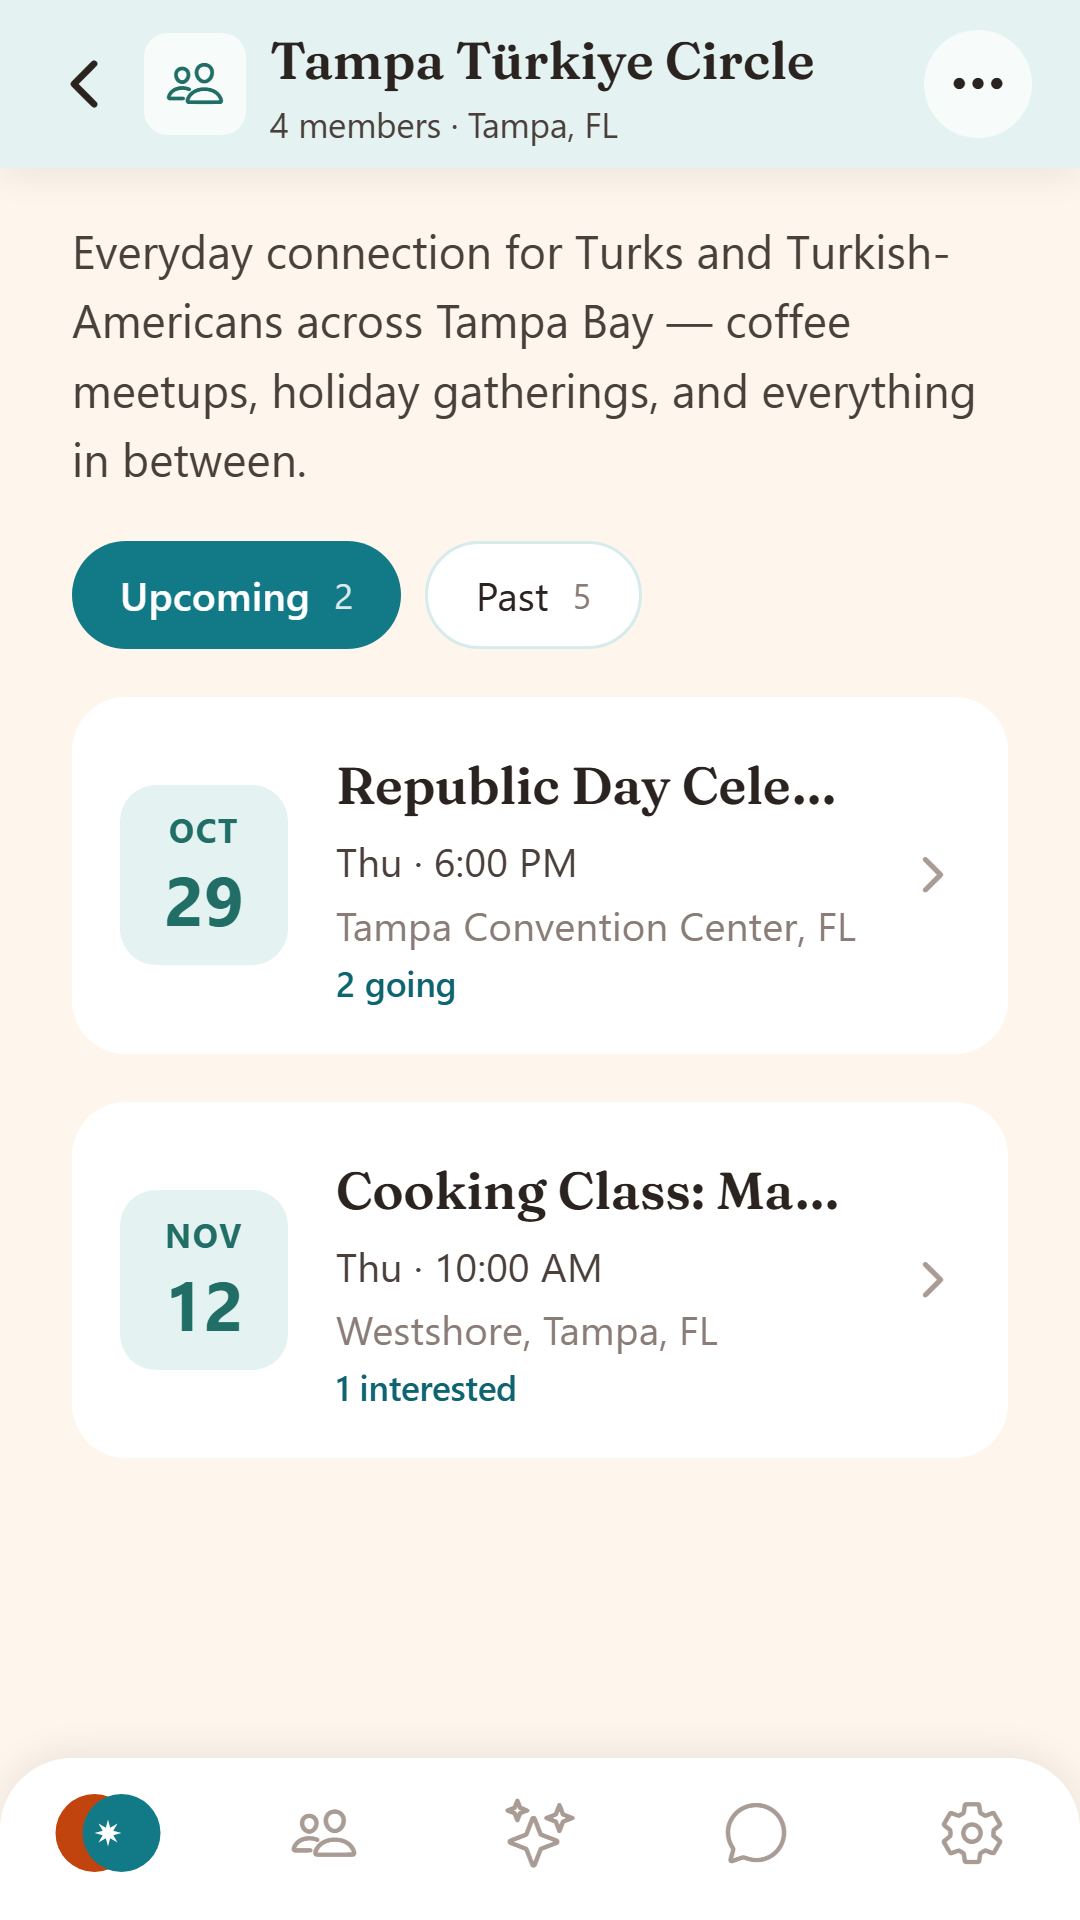
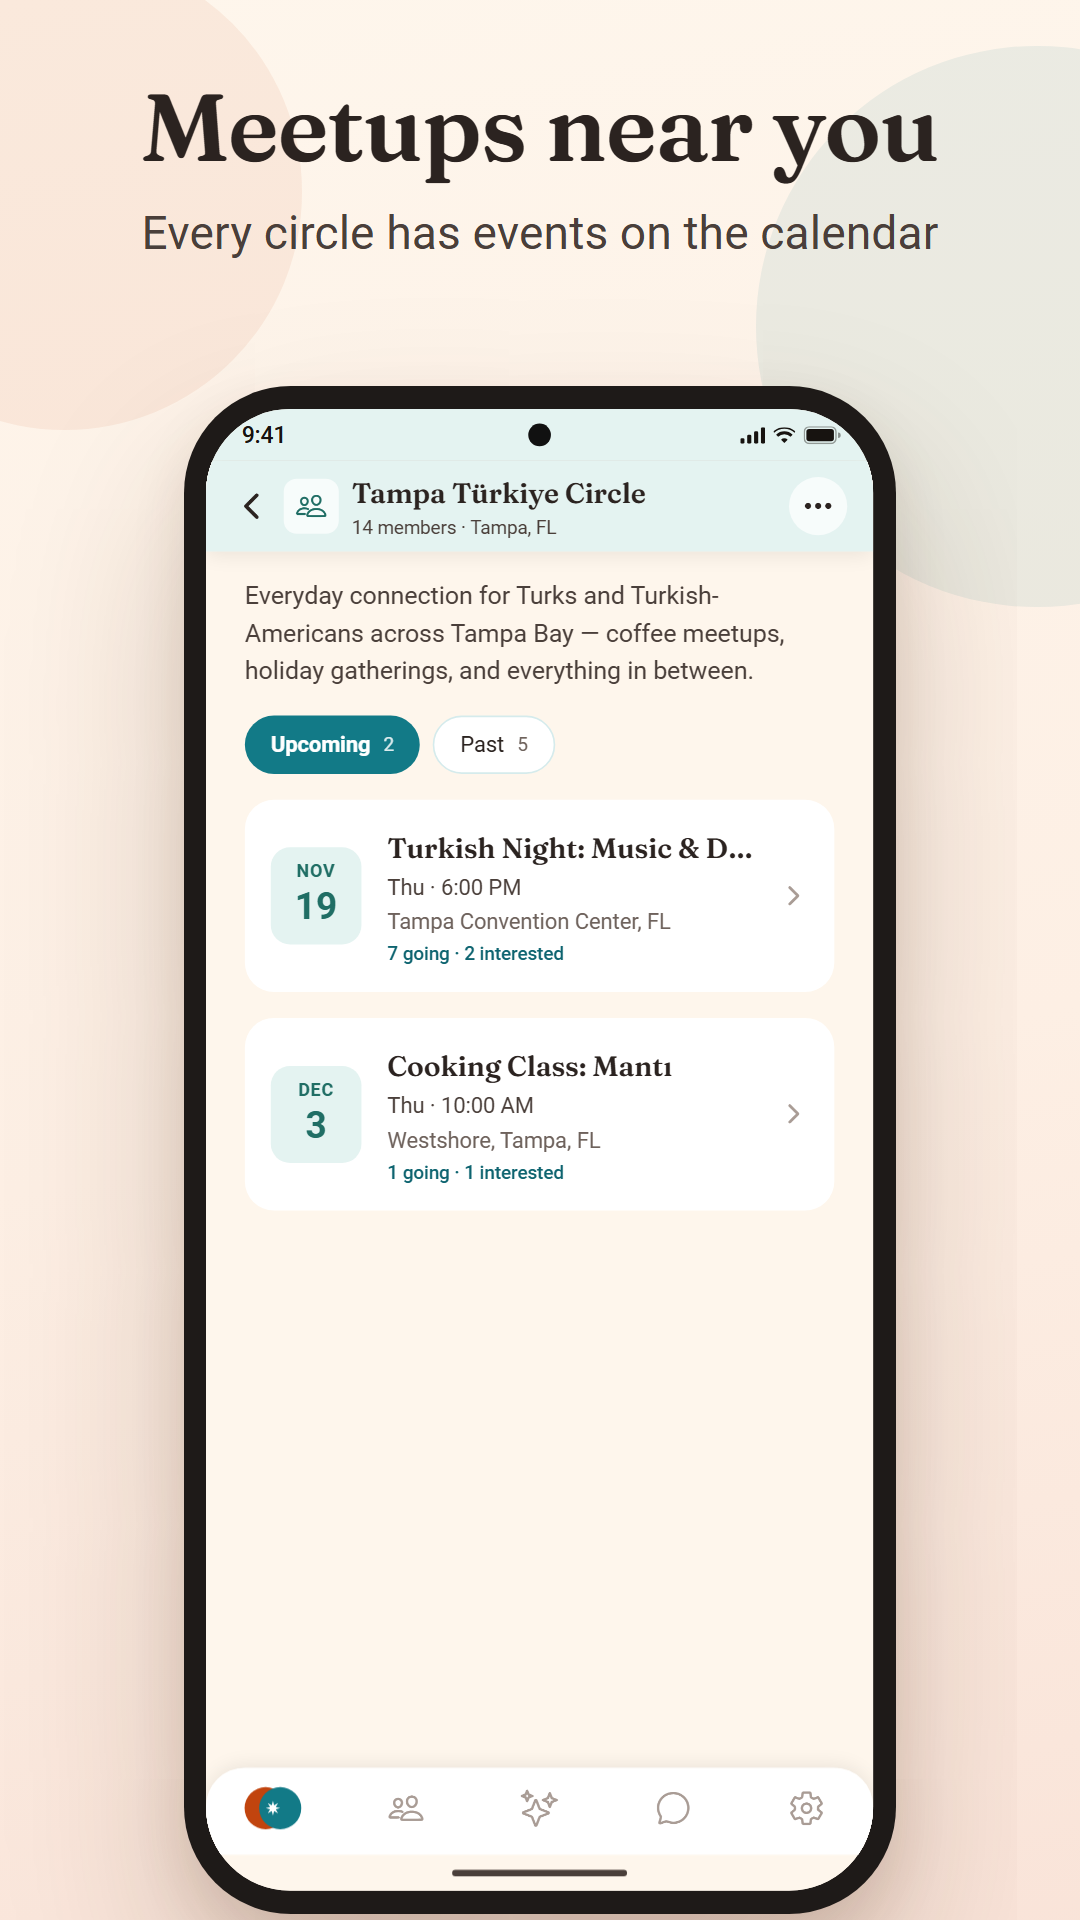
Store screenshots: captioned, in device frames, from the current app
All 28 retaken (App Store 6.9", Play phone, 7- and 10-inch tablet) with a headline
above each screen, the screen in a phone or tablet frame with a status bar, and the
phone's own font (Inter for iPhone, Roboto for Android) instead of Windows' Segoe UI.
The sample world now has upcoming events, real member counts, a current safety plan
and a clean chat. The Play feature graphic said "Turkic Circles"; it says Halka.

scripts/store_screenshots/ makes them again: prepare.py builds, signs in as the
review account and serves; shoot.ps1 renders into store-assets/.

diff --git a/scripts/store_screenshots/compose.html b/scripts/store_screenshots/compose.html
@@ -1,0 +1,128 @@
+<!doctype html>
+<html>
+<head>
+<meta charset="utf-8">
+<style>
+  @font-face { font-family: "Fraunces"; font-weight: 600; src: url(/shotfonts/fraunces-latin-600.woff2); unicode-range: U+0000-00FF,U+0131,U+0152-0153,U+02BB-02BC,U+02C6,U+02DA,U+02DC,U+2000-206F,U+20AC,U+2122,U+2212; }
+  @font-face { font-family: "Fraunces"; font-weight: 600; src: url(/shotfonts/fraunces-latin-ext-600.woff2); unicode-range: U+0100-02AF,U+1E00-1EFF,U+20A0-20C0,U+2C60-2C7F,U+A720-A7FF; }
+  html, body { margin: 0; overflow: hidden; }
+  body { background: linear-gradient(170deg, #FEF6EC 0%, #FDEFE4 55%, #F9E3D8 100%); position: relative; }
+  .dot { position: absolute; border-radius: 50%; }
+  .caption { position: absolute; left: 0; right: 0; text-align: center; color: #2B2320; }
+  .caption h1 { font-family: "Fraunces", serif; font-weight: 600; margin: 0; letter-spacing: -0.01em; line-height: 1.08; }
+  .caption p { font-family: "Segoe UI", sans-serif; margin: 0 auto; color: #4A3F3A; line-height: 1.35; }
+  .device { position: absolute; background: #1E1A18; box-shadow: 0 30px 60px rgba(74, 40, 20, 0.22), 0 8px 18px rgba(74, 40, 20, 0.12); }
+  .screen { position: absolute; overflow: hidden; background: #FEF6EC; }
+  .bar { position: absolute; left: 0; right: 0; display: flex; align-items: center; justify-content: space-between; font-family: "Segoe UI", sans-serif; font-weight: 600; color: #171310; box-sizing: border-box; }
+  .bottom { position: absolute; left: 0; right: 0; bottom: 0; display: flex; align-items: center; justify-content: center; }
+  iframe { position: absolute; left: 0; border: 0; transform-origin: 0 0; }
+</style>
+</head>
+<body>
+<div class="dot" id="d1"></div><div class="dot" id="d2"></div>
+<div class="caption" id="cap"><h1 id="h1"></h1><p id="h2"></p></div>
+<div class="device" id="dev"><div class="screen" id="scr">
+  <div class="bar" id="bar"></div>
+  <iframe id="app"></iframe>
+  <div class="bottom" id="bot"><div id="pill"></div></div>
+</div></div>
+<script>
+// Presets: canvas size in CSS px (the screenshot is this times the device scale factor),
+// the device's screen in CSS px, its status bar and bottom (home indicator / gesture
+// bar) heights, and how wide the device is drawn relative to the canvas.
+var PRESETS = {
+  ios:   { W: 440, H: 956,  sw: 402, sh: 874,  top: 54, bottom: 30, kind: "ios",     width: 0.80 },
+  play:  { W: 360, H: 640,  sw: 412, sh: 915,  top: 32, bottom: 22, kind: "android", width: 0.66 },
+  tab7:  { W: 612, H: 1088, sw: 600, sh: 960,  top: 26, bottom: 22, kind: "tablet",  width: 0.90 },
+  tab10: { W: 810, H: 1440, sw: 800, sh: 1280, top: 26, bottom: 22, kind: "tablet",  width: 0.90 }
+};
+var q = new URLSearchParams(location.search);
+var P = PRESETS[q.get("c")];
+document.body.style.width = P.W + "px";
+document.body.style.height = P.H + "px";
+
+// Decorative circles from the logo: coral and turquoise, very faint.
+function dot(id, x, y, r, color) {
+  var d = document.getElementById(id);
+  Object.assign(d.style, { left: (x - r) + "px", top: (y - r) + "px", width: 2 * r + "px", height: 2 * r + "px", background: color });
+}
+dot("d1", P.W * 0.06, P.H * 0.10, P.W * 0.22, "rgba(193, 68, 14, 0.07)");
+dot("d2", P.W * 0.96, P.H * 0.17, P.W * 0.26, "rgba(18, 122, 135, 0.08)");
+
+var u = P.W / 100;
+var cap = document.getElementById("cap");
+cap.style.top = (P.kind === "tablet" ? 6 : 7) * u + "px";
+cap.style.padding = "0 " + 6 * u + "px";
+var h1 = document.getElementById("h1"), h2 = document.getElementById("h2");
+h1.textContent = q.get("h1");
+h2.textContent = q.get("h2");
+h1.style.fontSize = (P.kind === "tablet" ? 6.6 : 8.8) * u + "px";
+h2.style.fontSize = (P.kind === "tablet" ? 3.3 : 4.3) * u + "px";
+h2.style.marginTop = 2.2 * u + "px";
+h1.style.whiteSpace = "nowrap";
+h2.style.maxWidth = (P.kind === "tablet" ? 70 : 84) * u + "px";
+
+// The device.
+var dw = P.W * P.width;
+var bezel = P.kind === "tablet" ? dw * 0.028 : dw * 0.032;
+var s = (dw - 2 * bezel) / P.sw;
+var capBottom = cap.offsetTop + h1.offsetHeight * 0 + parseFloat(h1.style.fontSize) * 1.08 + 2.2 * u + parseFloat(h2.style.fontSize) * 1.35 * 2;
+var dev = document.getElementById("dev"), scr = document.getElementById("scr");
+var dh = P.sh * s + 2 * bezel;
+var radius = P.kind === "tablet" ? dw * 0.05 : dw * 0.15;
+Object.assign(dev.style, { width: dw + "px", height: dh + "px", left: (P.W - dw) / 2 + "px", top: capBottom + 5.5 * u + "px", borderRadius: radius + "px" });
+Object.assign(scr.style, { left: bezel + "px", top: bezel + "px", width: P.sw + "px", height: P.sh + "px", transform: "scale(" + s + ")", transformOrigin: "0 0", borderRadius: (radius - bezel) / s + "px" });
+
+// Status bar.
+var bar = document.getElementById("bar");
+bar.style.height = P.top + "px";
+var icons =
+  '<svg width="18" height="12" viewBox="0 0 18 12"><rect x="0" y="8" width="3" height="4" rx="1" fill="#171310"/><rect x="5" y="5.5" width="3" height="6.5" rx="1" fill="#171310"/><rect x="10" y="3" width="3" height="9" rx="1" fill="#171310"/><rect x="15" y="0" width="3" height="12" rx="1" fill="#171310"/></svg>' +
+  '<svg width="16" height="12" viewBox="0 0 16 12"><path d="M8 11.5 5.6 9.1a3.4 3.4 0 0 1 4.8 0z M3.5 7a6.4 6.4 0 0 1 9 0l1.5-1.5a8.5 8.5 0 0 0-12 0z M0.6 4.1a10.6 10.6 0 0 1 14.8 0L16 3.4 15.4 2.6a12.2 12.2 0 0 0-14.8 0L0 3.4z" fill="#171310"/></svg>' +
+  '<svg width="27" height="13" viewBox="0 0 27 13"><rect x="0.5" y="0.5" width="23" height="12" rx="3.5" fill="none" stroke="#171310" stroke-opacity="0.4"/><rect x="2" y="2" width="20" height="9" rx="2" fill="#171310"/><path d="M25 4.5v4a2 2 0 0 0 0-4z" fill="#171310" fill-opacity="0.45"/></svg>';
+if (P.kind === "ios") {
+  bar.style.padding = "8px 30px 0 46px";
+  bar.style.fontSize = "17px";
+  bar.innerHTML = '<span>9:41</span><div style="position:absolute;left:50%;top:11px;width:124px;height:36px;margin-left:-62px;border-radius:18px;background:#000"></div><span style="display:flex;gap:6px;align-items:center">' + icons + '</span>';
+} else {
+  bar.style.padding = "0 20px 0 22px";
+  bar.style.fontSize = "14px";
+  bar.style.fontWeight = "500";
+  bar.innerHTML = '<span>9:41</span>' + (P.kind === "android" ? '<div style="position:absolute;left:50%;top:9px;width:14px;height:14px;margin-left:-7px;border-radius:50%;background:#111"></div>' : '') + '<span style="display:flex;gap:6px;align-items:center;transform:scale(0.85);transform-origin:right center">' + icons + '</span>';
+}
+
+// The app, below the status bar and above the home indicator.
+var app = document.getElementById("app");
+app.style.top = P.top + "px";
+app.style.width = P.sw + "px";
+app.style.height = (P.sh - P.top - P.bottom) + "px";
+var bot = document.getElementById("bot");
+bot.style.height = P.bottom + "px";
+var pill = document.getElementById("pill");
+Object.assign(pill.style, P.kind === "ios"
+  ? { width: "140px", height: "5px", borderRadius: "3px", background: "#171310", marginTop: "6px" }
+  : { width: "108px", height: "4px", borderRadius: "2px", background: "#4A3F3A" });
+app.src = q.get("p");
+
+// Status bar and bottom strip take the colour of the app's edge beneath them, so they
+// read as part of the screen (white headers, mint circle headers, the cream page).
+function bgAt(doc, x, y) {
+  var el = doc.elementFromPoint(x, y);
+  while (el) {
+    var c = getComputedStyle(el).backgroundColor;
+    if (c && c !== "transparent" && !/rgba\(.*, 0\)$/.test(c)) return c;
+    el = el.parentElement;
+  }
+  return "#FEF6EC";
+}
+function paint() {
+  try {
+    var doc = app.contentDocument;
+    bar.style.background = bgAt(doc, 30, 2);
+    bot.style.background = bgAt(doc, P.sw / 2, P.sh - P.top - P.bottom - 12);
+  } catch (e) {}
+}
+setInterval(paint, 300);
+</script>
+</body>
+</html>

diff --git a/scripts/store_screenshots/feature.html b/scripts/store_screenshots/feature.html
@@ -1,0 +1,17 @@
+<!doctype html><html><head><meta charset="utf-8"><link rel="stylesheet" href="/shotfonts/fonts.css">
+<style>
+@font-face { font-family: "Fraunces"; font-weight: 600; src: url(/shotfonts/fraunces-latin-600.woff2); }
+html,body{margin:0;width:1024px;height:500px;overflow:hidden}
+body{background:#FEF6EC;position:relative;font-family:"Segoe UI",sans-serif}
+.c{position:absolute;border-radius:50%}
+.tile{position:absolute;left:84px;top:145px;width:210px;height:210px;border-radius:48px;background:#fff;box-shadow:0 18px 40px rgba(74,40,20,.12);display:flex;align-items:center;justify-content:center}
+.tile img{width:170px;height:170px}
+h1{position:absolute;left:350px;top:118px;margin:0;font-family:"Fraunces",serif;font-weight:600;font-size:118px;color:#2B2320;letter-spacing:-0.01em}
+p{position:absolute;left:352px;top:268px;width:600px;margin:0;font-size:29px;line-height:1.4;color:#4A3F3A}
+</style></head><body>
+<div class="c" style="left:624px;top:-140px;width:520px;height:520px;background:rgba(18,122,135,.08)"></div>
+<div class="c" style="left:484px;top:285px;width:420px;height:420px;background:rgba(193,68,14,.07)"></div>
+<div class="tile"><img src="/shot-icon.png"></div>
+<h1>Halka</h1>
+<p>Join circles, go to meetups, and meet your people nearby.</p>
+</body></html>

diff --git a/scripts/store_screenshots/prepare.py b/scripts/store_screenshots/prepare.py
@@ -1,0 +1,147 @@
+"""Prepares and serves the signed-in web build that the store screenshots are taken from.
+
+    python scripts/store_screenshots/prepare.py           # build, sign in, serve (Ctrl+C to stop)
+    powershell scripts/store_screenshots/shoot.ps1        # in a second terminal
+
+Steps: exports the web build, signs in as the App Review account (a magic link made
+with the service-role key, fetched through the linked Supabase CLI and never written
+to disk; only the resulting session is, in the temp folder), and makes two copies:
+port 4801 with Inter in place of the system font (close to the iPhone's San Francisco),
+port 4802 with Roboto (Android's). Both get compose.html and feature.html, which draw
+the caption, device frame and status bar around the live app.
+"""
+
+import http.server
+import json
+import os
+import shutil
+import subprocess
+import sys
+import threading
+import urllib.request
+from pathlib import Path
+
+ROOT = Path(__file__).resolve().parents[2]
+HERE = Path(__file__).resolve().parent
+WORK = Path(os.environ["TEMP"]) / "halka-shots"
+PROJECT_REF = "mpcfakrdgqzcofscnwvu"
+REVIEW_EMAIL = "mock003@turek-mock.invalid"
+
+FONT_RANGES = {
+    "latin": "U+0000-00FF,U+0131,U+0152-0153,U+02BB-02BC,U+02C6,U+02DA,U+02DC,U+0304,U+0308,U+0329,U+2000-206F,U+2074,U+20AC,U+2122,U+2191,U+2193,U+2212,U+2215,U+FEFF,U+FFFD",
+    "latin-ext": "U+0100-02AF,U+0304,U+0308,U+0329,U+1E00-1E9F,U+1EF2-1EFF,U+2020,U+20A0-20AB,U+20AD-20C0,U+2113,U+2C60-2C7F,U+A720-A7FF",
+    "cyrillic": "U+0301,U+0400-045F,U+0490-0491,U+04B0-04B1,U+2116",
+}
+COPIES = {"ios": ("inter", 4801), "play": ("roboto", 4802)}
+
+
+def npx(*args: str) -> str:
+    return subprocess.run(["npx", *args], cwd=ROOT, check=True, capture_output=True, text=True, shell=os.name == "nt").stdout
+
+
+def download_fonts(fonts: Path) -> None:
+    fonts.mkdir(parents=True, exist_ok=True)
+    wanted = [(fam, sub, w) for fam in ("inter", "roboto") for sub in FONT_RANGES for w in (400, 500, 600, 700)]
+    wanted += [("fraunces", sub, 600) for sub in ("latin", "latin-ext")]
+    for fam, sub, w in wanted:
+        target = fonts / f"{fam}-{sub}-{w}.woff2"
+        if target.exists():
+            continue
+        url = f"https://cdn.jsdelivr.net/npm/@fontsource/{fam}@5.0.8/files/{fam}-{sub}-{w}-normal.woff2"
+        try:
+            target.write_bytes(urllib.request.urlopen(url, timeout=30).read())
+        except OSError:
+            pass  # Roboto has no 600; the browser uses 700 for it.
+
+
+def review_session() -> dict:
+    keys = json.loads(npx("supabase", "projects", "api-keys", "--project-ref", PROJECT_REF, "-o", "json"))
+    service = next(k["api_key"] for k in keys if k.get("name") == "service_role")
+    auth = f"https://{PROJECT_REF}.supabase.co/auth/v1"
+
+    def post(path: str, body: dict, admin: bool) -> dict:
+        headers = {"apikey": service, "Content-Type": "application/json"}
+        if admin:
+            headers["Authorization"] = f"Bearer {service}"
+        req = urllib.request.Request(f"{auth}/{path}", data=json.dumps(body).encode(), headers=headers, method="POST")
+        return json.loads(urllib.request.urlopen(req, timeout=30).read())
+
+    link = post("admin/generate_link", {"type": "magiclink", "email": REVIEW_EMAIL}, admin=True)
+    token = link.get("hashed_token") or link.get("properties", {}).get("hashed_token")
+    session = post("verify", {"type": "magiclink", "token_hash": token}, admin=False)
+    if not session.get("access_token"):
+        raise SystemExit("couldn't sign in as the review account")
+    return session
+
+
+def prepare() -> None:
+    fonts = WORK / "fonts"
+    download_fonts(fonts)
+    session = review_session()
+    web = WORK / "web"
+    shutil.rmtree(web, ignore_errors=True)
+    npx("expo", "export", "-p", "web", "--output-dir", str(web))
+    for name, (family, _) in COPIES.items():
+        dst = WORK / name
+        shutil.rmtree(dst, ignore_errors=True)
+        shutil.copytree(web, dst)
+        shutil.copytree(fonts, dst / "shotfonts")
+        faces = []
+        for w in (400, 500, 600, 700):
+            for sub, rng in FONT_RANGES.items():
+                f = f"{family}-{sub}-{w}.woff2"
+                if (fonts / f).exists():
+                    faces.append(f'@font-face{{font-family:"Segoe UI";font-weight:{w};src:url(/shotfonts/{f}) format("woff2");unicode-range:{rng};}}')
+        (dst / "shotfonts" / "fonts.css").write_text("\n".join(faces), encoding="utf-8")
+        link = '<link rel="stylesheet" href="/shotfonts/fonts.css">'
+        # Signed in as the review account, with Discover's first-visit hint already seen.
+        script = (
+            "<script>localStorage.setItem('discover.gestureHintSeen','1');"
+            f"localStorage.setItem('sb-{PROJECT_REF}-auth-token',{json.dumps(json.dumps(session))});</script>"
+        )
+        index = dst / "index.html"
+        index.write_text(index.read_text(encoding="utf-8").replace("<head>", "<head>" + script + link, 1), encoding="utf-8", newline="\n")
+        for page in ("compose.html", "feature.html"):
+            text = (HERE / page).read_text(encoding="utf-8")
+            if page == "compose.html":
+                text = text.replace("<style>", link + "<style>", 1)
+            (dst / page).write_text(text, encoding="utf-8", newline="\n")
+        shutil.copy(ROOT / "store-assets" / "play-icon-512.png", dst / "shot-icon.png")
+    shutil.rmtree(web)
+
+
+def serve() -> None:
+    def handler_for(root: Path):
+        class Handler(http.server.SimpleHTTPRequestHandler):
+            def __init__(self, *args, **kwargs):
+                super().__init__(*args, directory=str(root), **kwargs)
+
+            def send_head(self):
+                # Single-page app: unknown paths get index.html.
+                if not os.path.exists(self.translate_path(self.path)):
+                    self.path = "/index.html"
+                return super().send_head()
+
+            def log_message(self, *args):
+                pass
+
+        return Handler
+
+    servers = [http.server.ThreadingHTTPServer(("127.0.0.1", port), handler_for(WORK / name)) for name, (_, port) in COPIES.items()]
+    for s in servers[1:]:
+        threading.Thread(target=s.serve_forever, daemon=True).start()
+    print("Serving on 4801 (iPhone) and 4802 (Android). Run shoot.ps1 now; Ctrl+C when done.", flush=True)
+    try:
+        servers[0].serve_forever()
+    except KeyboardInterrupt:
+        pass
+    finally:
+        # The session file only lives in the copies; remove them with the sign-in.
+        for name in COPIES:
+            shutil.rmtree(WORK / name, ignore_errors=True)
+
+
+if __name__ == "__main__":
+    if "--serve-only" not in sys.argv:
+        prepare()
+    serve()

diff --git a/store-submission.md b/store-submission.md
@@ -209,16 +209,34 @@ were taken with it.
 
 ## 7. Screenshots
 
-Take them on the review account (with the sample members visible), in light mode,
-with real-looking content. Suggested order — the first two matter most:
+All in `store-assets/`, captioned (headline and subline above the screen in a device
+frame), taken from the live app signed in as the review account, so the sample world
+(migration 0065) supplies the people, events and chat. To retake them after a design
+change:
 
-1. **Circles** list (cards with topic tiles, member and event counts)
-2. **A circle's page** with upcoming events
-3. **An event** with Going / Interested faces
-4. **Discover** card
-5. **Chat** conversation (grouped bubbles, a reaction)
-6. **Safety Center** (Your plans, Report/Block, Verified)
-7. **Profile** with the Verified badge
+```
+python scripts/store_screenshots/prepare.py      # builds, signs in, serves; leave it running
+powershell scripts/store_screenshots/shoot.ps1   # second terminal; writes store-assets/
+```
+
+`shoot.ps1 -Only 3-event` retakes one screen, `-Sets ios` one set. Captions and screen
+paths are at the top of `shoot.ps1`. If a shot looks wrong, check the review account
+first: language English, light theme, its photo (testing on it has changed these
+before).
+
+| # | Screen | Headline |
+| --- | --- | --- |
+| 1 | Circles list | Find your people |
+| 2 | A circle's page (Tampa Türkiye) | Meetups near you |
+| 3 | An event (Sketch Walk) with Going / Interested | See who's going |
+| 4 | Discover card | People who get you |
+| 5 | Chat with Aigerim | Chat and make plans |
+| 6 | Safety Center with a plan | Safety built in |
+| 7 | A member's profile | Know who you meet |
+
+Uploads: App Store → `appstore-6.9-*` (all 7). Play → phone `play-screenshot-*`,
+7-inch `play-tablet7-*`, 10-inch `play-tablet10-*`, feature graphic
+`play-feature-1024x500.png`, icon `play-icon-512.png`.
 
 **Sizes**
 - **Apple:** 6.9" iPhone, 1320 × 2868 px (portrait) — required; Apple scales it for
@@ -226,9 +244,6 @@ with real-looking content. Suggested order — the first two matter most:
 - **Google:** phone screenshots, 2–8, 16:9 or 9:16, each side 320–3840 px
   (e.g. 1080 × 1920). Plus a **feature graphic** 1024 × 500 px and an **app icon**
   512 × 512 px (PNG, 32-bit).
-
-Optional: add a short caption over each screenshot ("Join circles near you", "See who's
-going", "Chat and make plans", "Safe by design").
 
 ---
 
